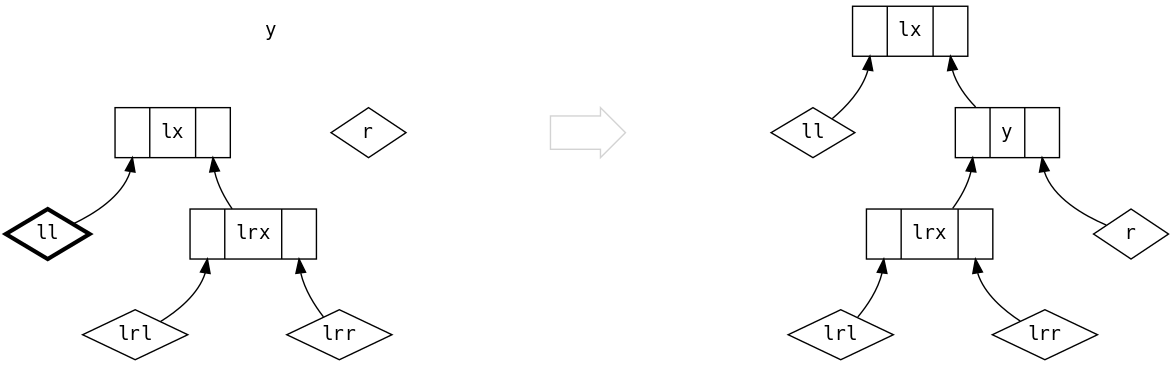
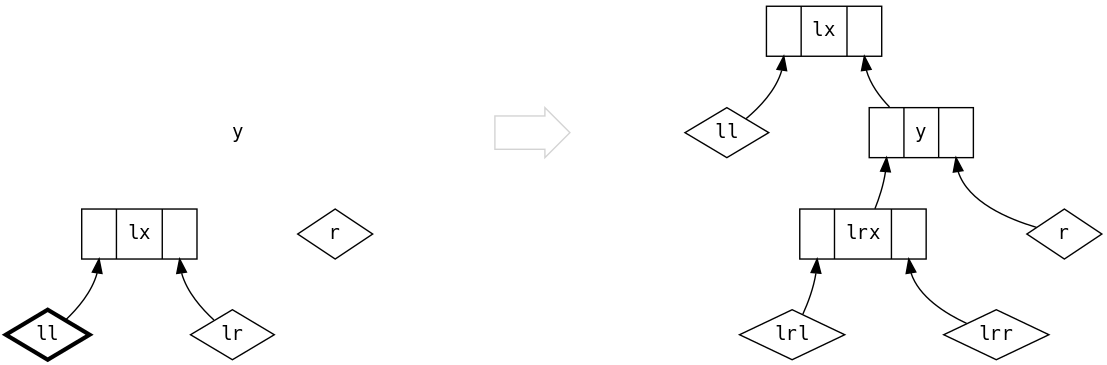
woah, I understand ISet

diff --git a/manuscript/complete.md b/manuscript/complete.md
@@ -6370,8 +6370,8 @@ balanced tree, but it is incredibly inefficient as every insertion effectively
 rebuilds the entire tree.
 
 `ISet` is an implementation of a tree of *bounded balance*, meaning that it is
-approximately balanced. `ISet` uses the `size` of each node and ensures that no
-branch is ever more than twice the `size` of its sibling.
+approximately balanced. `ISet` uses the `size` of each node to ensure that
+branches are approximately the same `size` as their siblings.
 
 {lang="text"}
 ~~~~~~~~
@@ -6394,9 +6394,9 @@ branch is ever more than twice the `size` of its sibling.
   }
 ~~~~~~~~
 
-`ISet` requires the content `A` to have an `Order`, which is respected in the
-tree structure. The `Order[A]` instance must not change between calls or the
-internal assumptions will be invalid, leading to data corruption.
+`ISet` requires `A` to have an `Order`. The `Order[A]` instance must not change
+between calls or the internal assumptions will be invalid, leading to data
+corruption.
 
 A> There is a school of thought that no typeclass should have more than one
 A> instance for a given type parameter, e.g. there is only one `Order[A]` for any
@@ -6405,10 +6405,15 @@ A> as discussed in Chapter 4, are the most common way to (accidentally) break ty
 A> coherence.
 A> 
 A> Typeclass coherence also has consequences for typeclass hierarchies: `Monad`
-A> extends from `Applicative` which forbids some `Applicative` optimisations due to
-A> the additional laws that are imposed by `Monad`. Typeclass coherence has such a
-A> huge impact that the Scalaz 8 design has abandoned typeclasses inheritance, in
-A> favour of composition.
+A> extends `Applicative`, which forbids some `Applicative` optimisations due to the
+A> additional laws that are imposed by `Monad`.
+A> 
+A> Typeclass coherence has such a huge impact that the Scalaz 8 design has
+A> abandoned typeclasses inheritance, in favour of composition.
+
+The ADT (`Tip` and `Bin`) permits many invalid trees, so they are `private` and
+can only be accessed inside `ISet`. At the heart of `ISet` is `.insert`, which
+builds, and there defines what constitutes, a valid tree.
 
 {lang="text"}
 ~~~~~~~~
@@ -6430,9 +6435,8 @@ A> favour of composition.
 ~~~~~~~~
 
 The private methods `.balanceL` and `.balanceR` are mirrors of each other, so we
-will only study `.balanceL`, which is called in the case that the value we are
-inserting is *less than* the central value in the set. It is also called by the
-`.delete` method.
+only study `.balanceL`, which is called when the value we are inserting is *less
+than* the current node. It is also called by the `.delete` method.
 
 {lang="text"}
 ~~~~~~~~
@@ -6440,10 +6444,10 @@ inserting is *less than* the central value in the set. It is also called by the
   ...
 ~~~~~~~~
 
-Rebalancing requires us to classify the scenarios that can occur.
-
-In the following diagrams, we visualise the `(y, left, right)` on the left side
-of the page, with the rebalanced structure on the right. The legend is:
+Balancing requires us to classify the scenarios that can occur. We will go
+through each possible scenario, visualising the `(y, left, right)` on the left
+side of the page, with the balanced structure on the right, also known as the
+*rotated tree*.
 
 -   filled circles visualise a `Tip`
 -   three columns visualise the `left | value | right` fields of `Bin`
@@ -6485,9 +6489,10 @@ containing a `Bin` in its `right`
 ![](images/balanceL-3.png)
 
 But what happened to the two diamonds sitting below `lrx`? Didn't we just lose
-information? No, we didn't lose information, because we use size balancing to
-know that they are always `Tip`! There is no rule in any of the following
-scenarios that can produce a tree of the shape where the diamonds are `Bin`.
+information? No, we didn't lose information, because we can reason (based on
+size balancing) that they are always `Tip`! There is no rule in any of the
+following scenarios (or in `.balanceR`) that can produce a tree of the shape
+where the diamonds are `Bin`.
 
 The fourth case is the opposite of the third case.
 
@@ -6505,13 +6510,13 @@ must use their relative sizes to decide on how to re-balance.
 {lang="text"}
 ~~~~~~~~
   case (Bin(lx, ll, lr @ Bin(lrx, lrl, lrr)), Tip()) =>
-    if (lr.size < 2*ll.size)
+    if (2*ll.size > lr.size)
       Bin(lx, ll, Bin(y, lr, Tip()))
     else
       Bin(lrx, Bin(lx, ll, lrl), Bin(y, lrr, Tip()))
 ~~~~~~~~
 
-For the first branch, `lr.size < 2*ll.size`
+For the first branch, `2*ll.size > lr.size`
 
 {width=70%}
 ![](images/balanceL-5a.png)
@@ -6525,9 +6530,6 @@ The sixth scenario introduces a tree on the `right`. When the `left` is empty we
 create the obvious connection. This scenario never arises from `.insert` because
 the `left` is always non-empty:
 
-A> FIXME: isn't this the forbidden tree from scenario 3? Check if this is a very
-A> subtle bug.
-
 {lang="text"}
 ~~~~~~~~
   case (Tip(), r) => Bin(y, Tip(), r)
@@ -6537,8 +6539,8 @@ A> subtle bug.
 ![](images/balanceL-6.png)
 
 The final scenario is when we have non-empty trees on both sides. It is similar
-to scenario four but we must first make a decision based on if the `right` is
-more than 3 times the size of `left`, in which case we just create the obvious
+to scenario four but we must first deal with the corner case where `right` is
+the same or more than three times the size of `left`, creating the obvious
 connection
 
 {lang="text"}
@@ -6549,19 +6551,16 @@ connection
 {width=50%}
 ![](images/balanceL-7a.png)
 
-In what remains, we know that the `left` is at least three times the size of the
-`right`, so we can assume it is a non-empty tree with another non-empty tree in
-its `right` side and we make a similar decision to scenario five:
-
-A> FIXME: I don't see why it follows that the nested tree must be a `Bin`
+Knowing that the `left` is at least three times the size of the `right`, we
+balance based on the relative sizes of `ll` and `lr`, just like in scenario
+five. When `lr` is the larger, we know that it must be a `Bin`
 
 {lang="text"}
 ~~~~~~~~
-  case (Bin(lx, ll, lr @ Bin(lrx, lrl, lrr)), r) =>
-    if (lr.size < 2*ll.size)
-      Bin(lx, ll, Bin(y, lr, r))
-    else
-      Bin(lrx, Bin(lx, ll, lrl), Bin(y, lrr, r))
+  case (Bin(lx, ll, lr), r) if (2*ll.size > lr.size) =>
+    Bin(lx, ll, Bin(y, lr, r))
+  case (Bin(lx, ll, Bin(lrx, lrl, lrr)), r) =>
+    Bin(lrx, Bin(lx, ll, lrl), Bin(y, lrr, r))
 ~~~~~~~~
 
 {width=70%}
